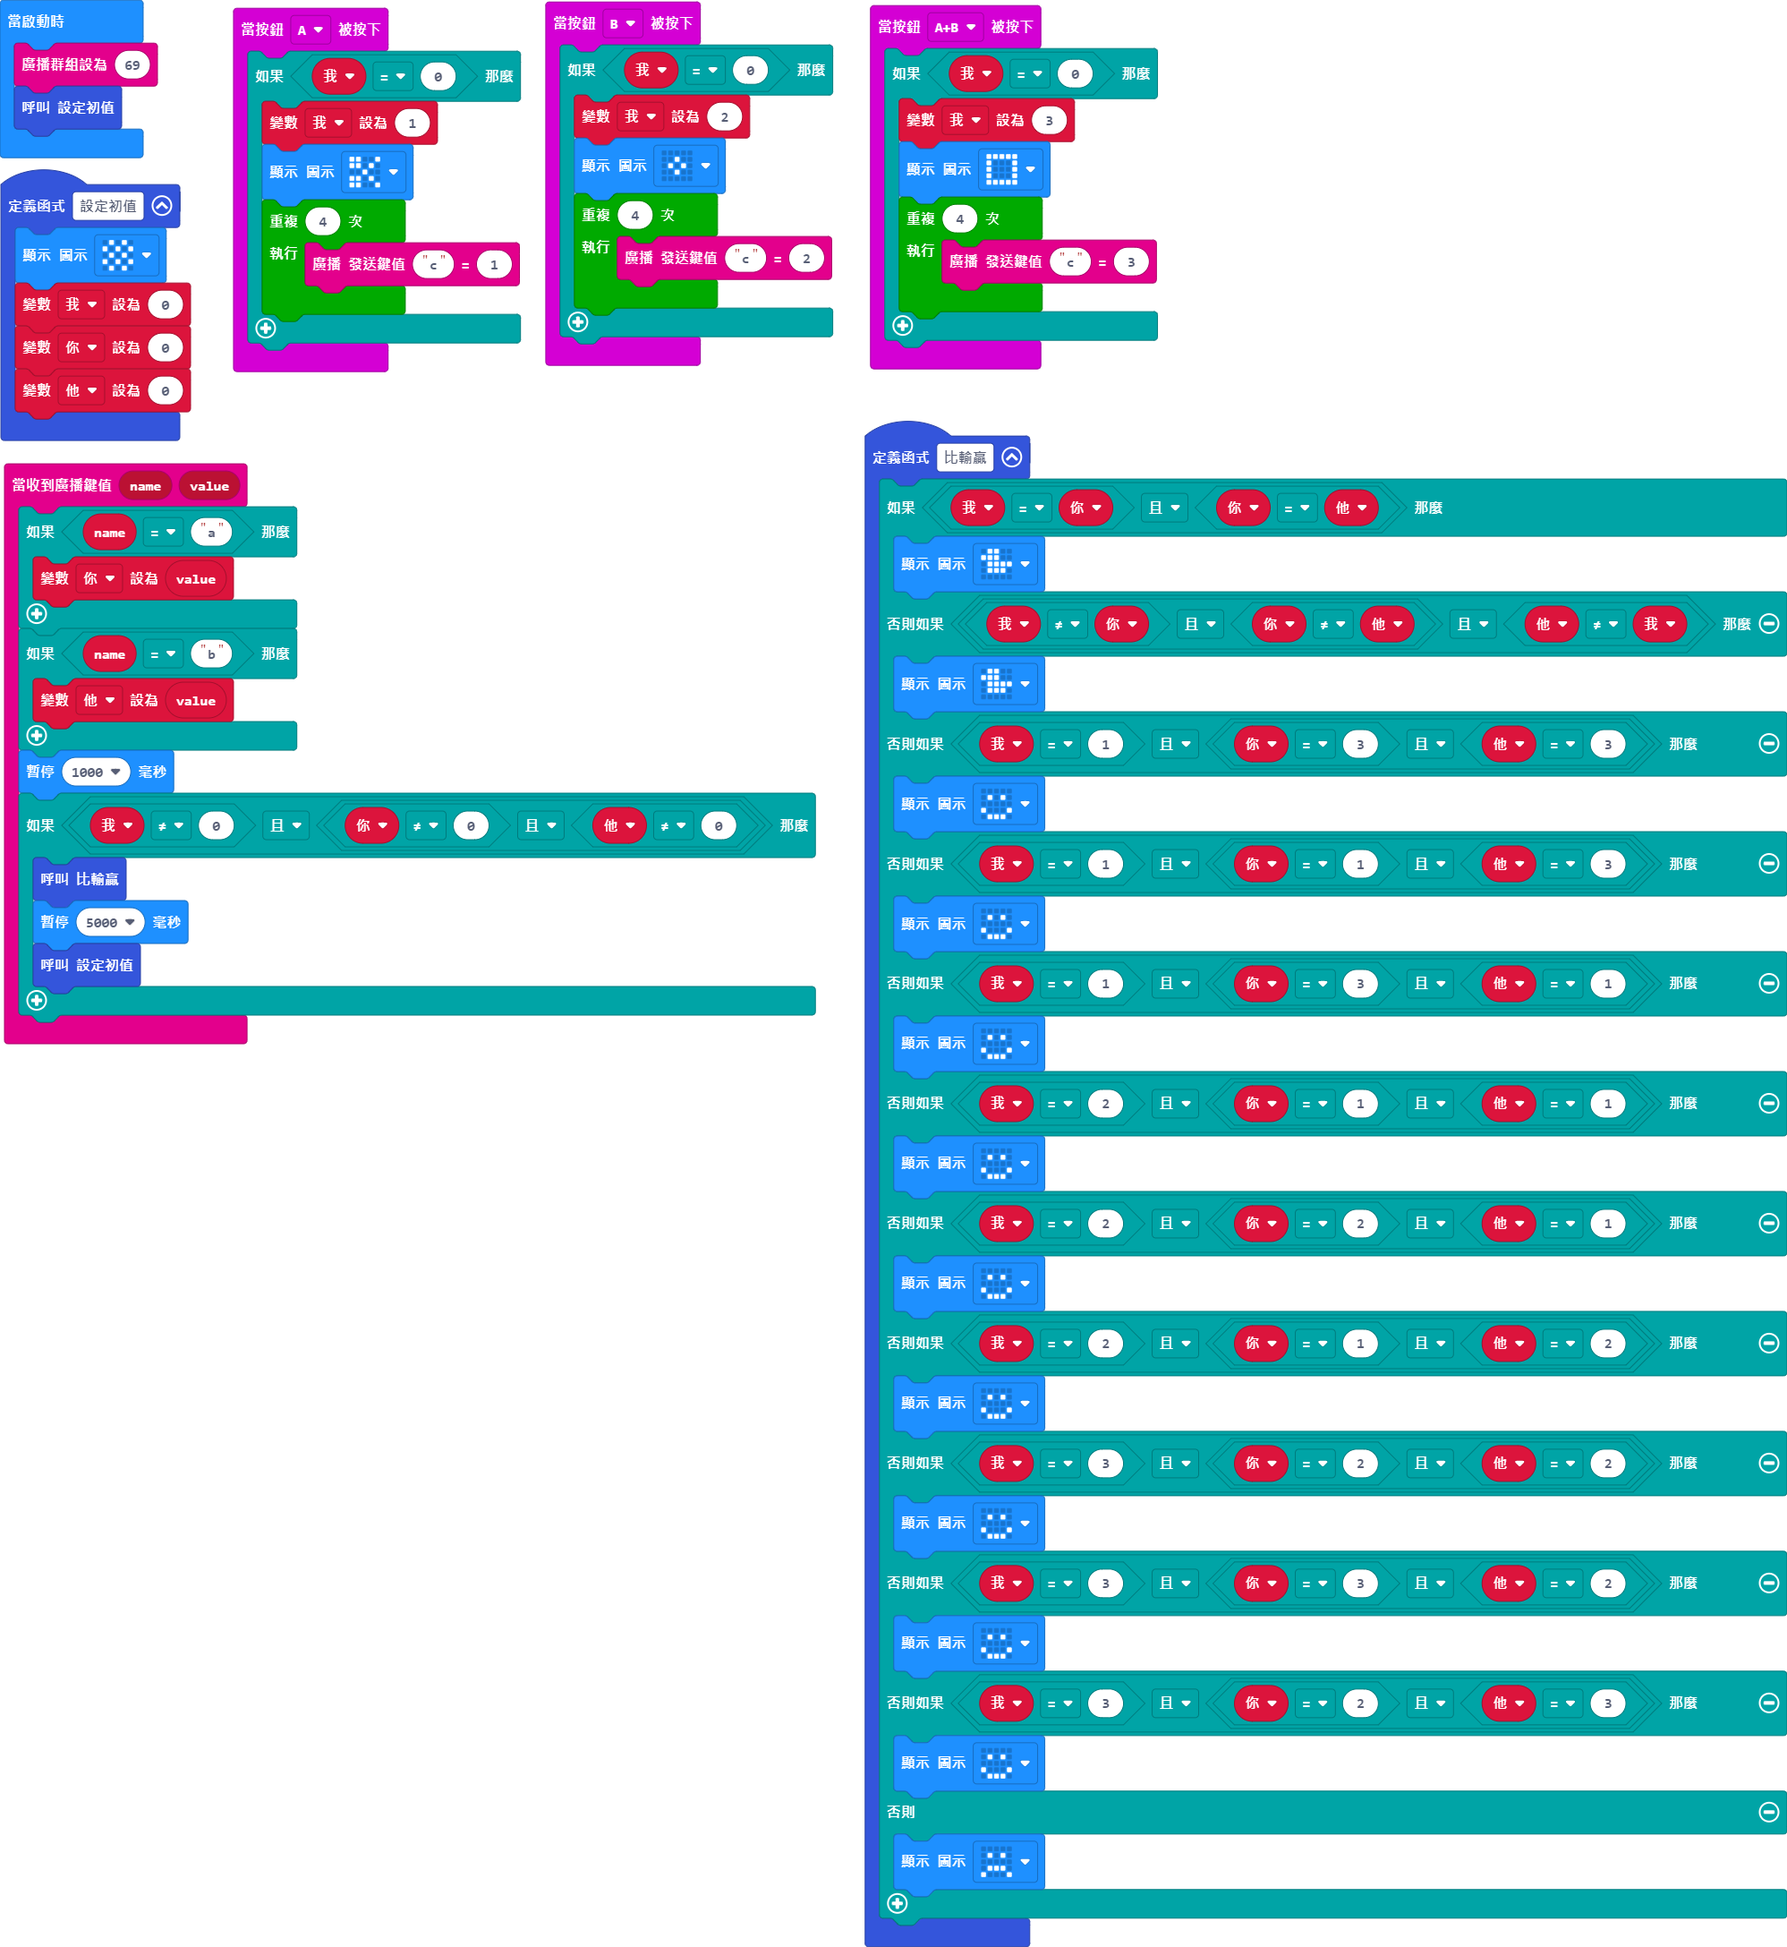
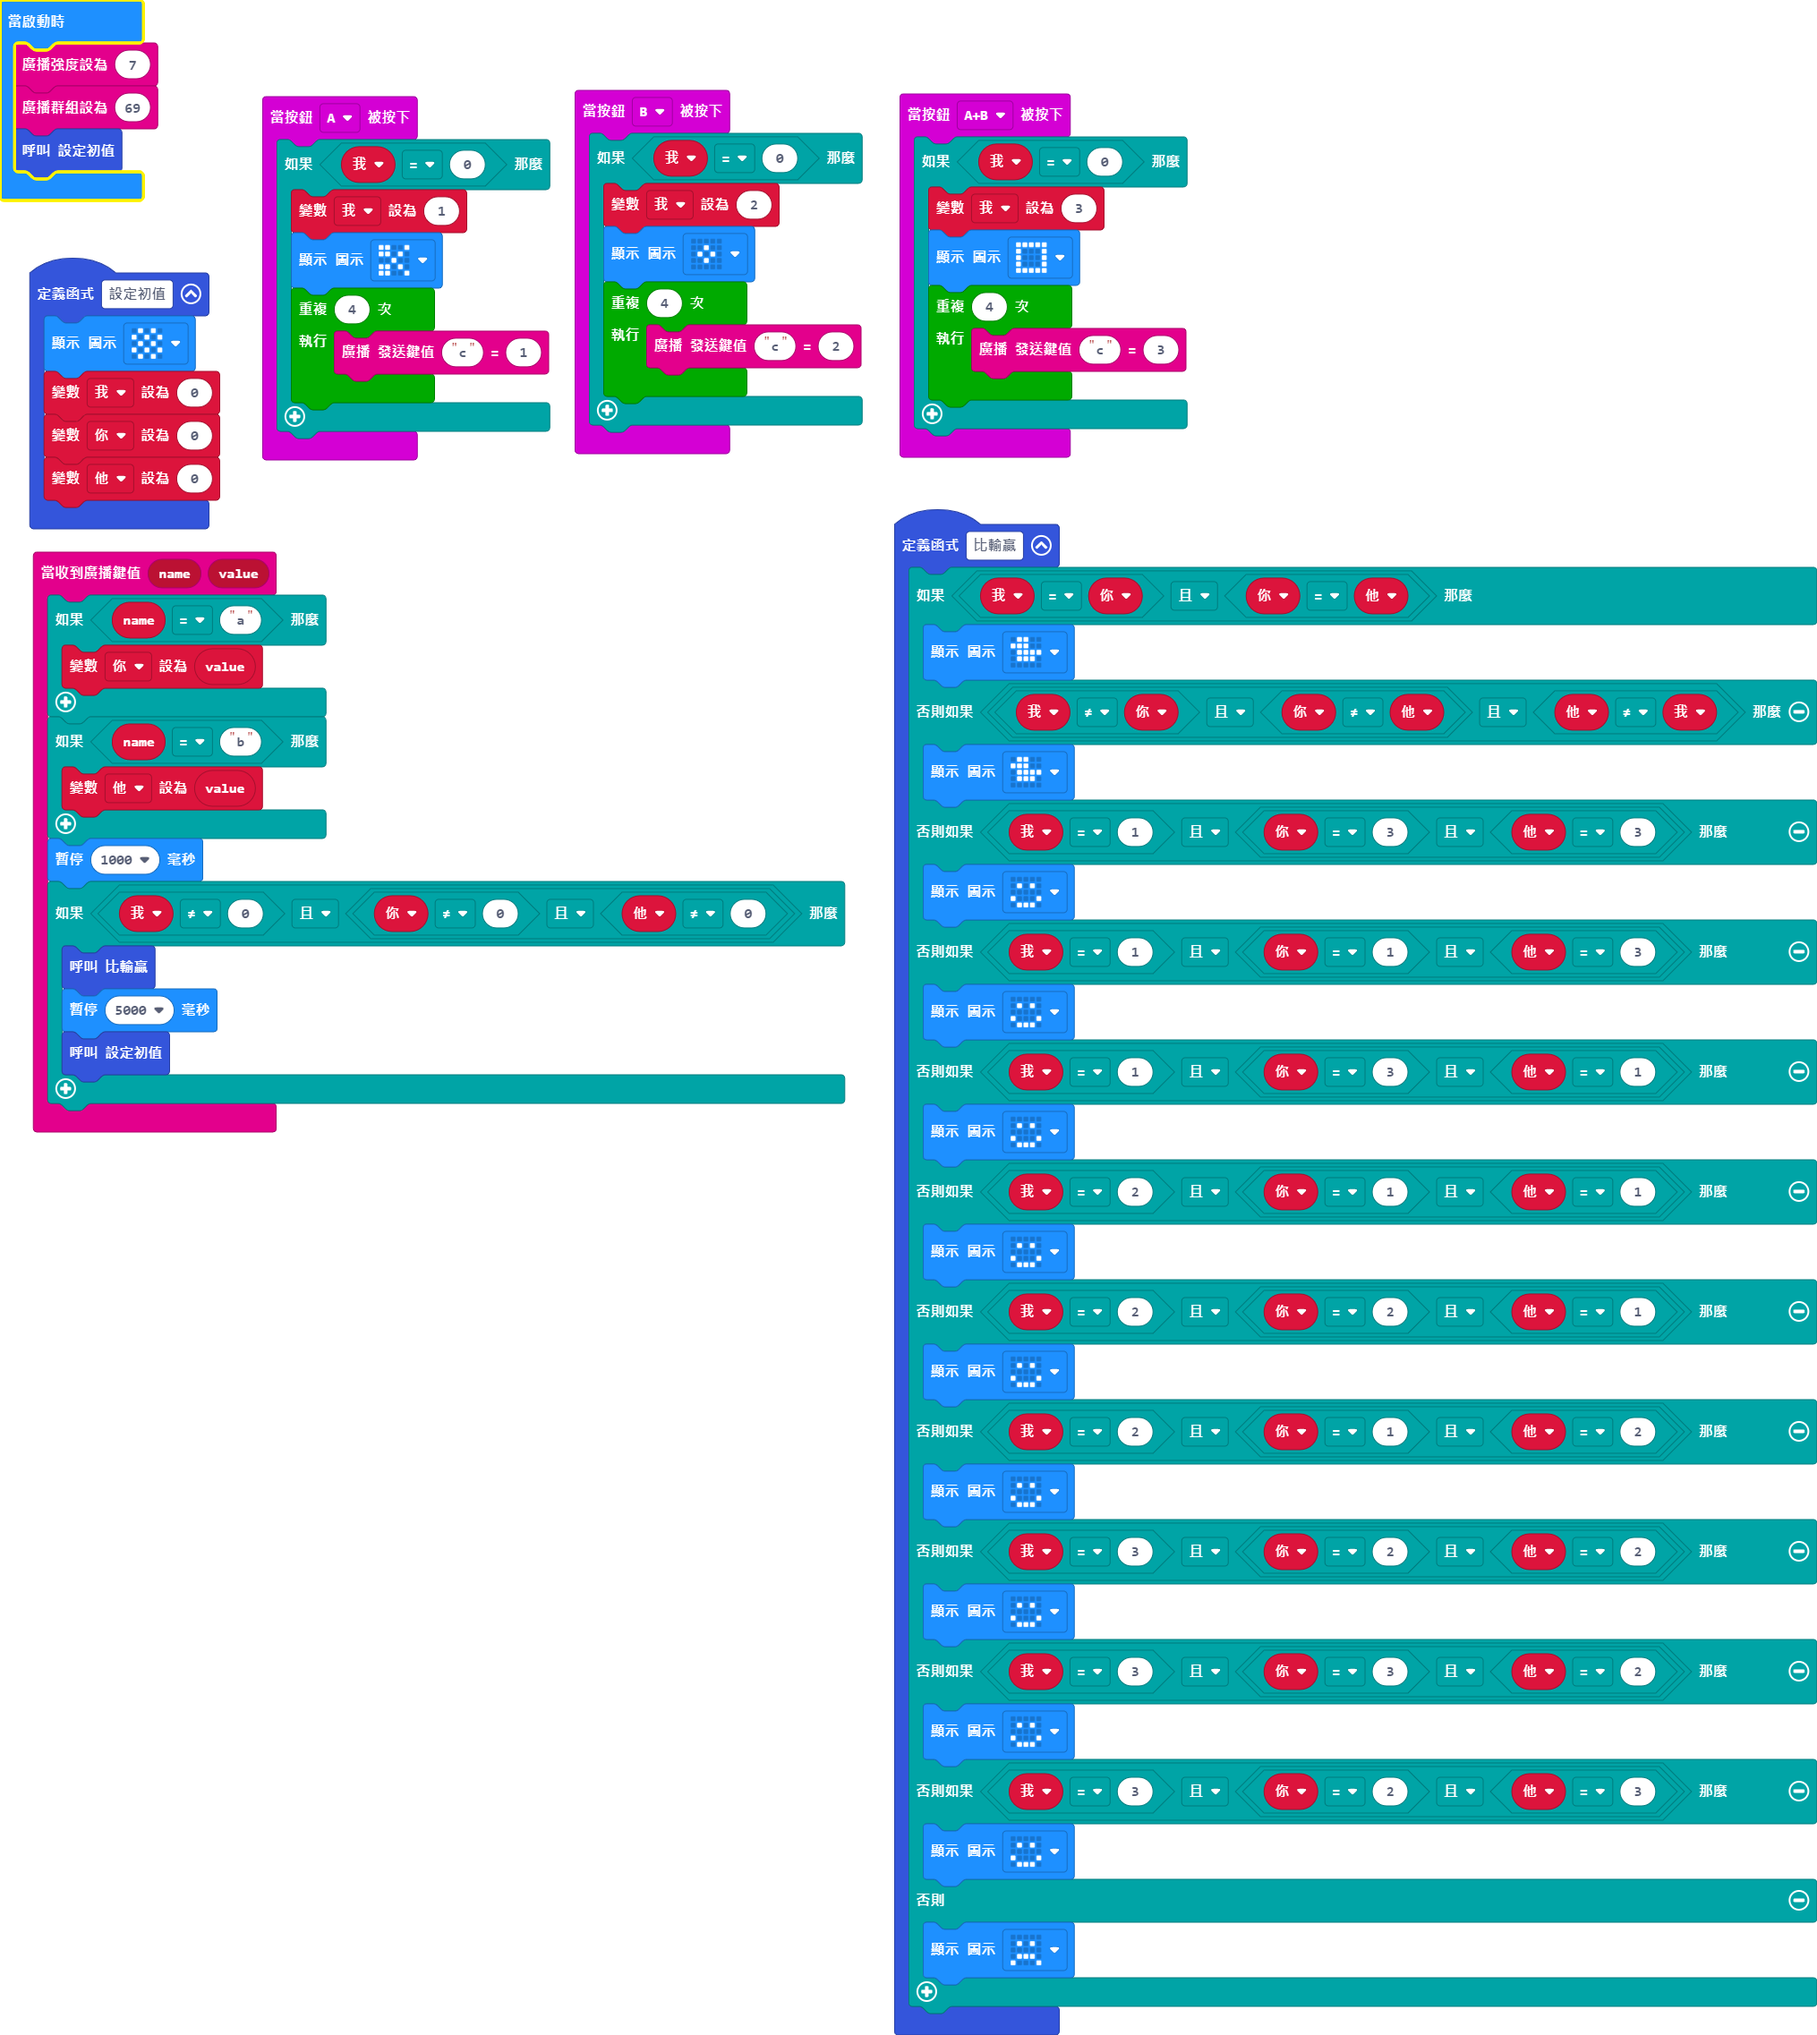
更新 main.blocks, main.ts

diff --git a/main.ts b/main.ts
@@ -75,5 +75,6 @@ radio.onReceivedValue(function (name, value) {
 let 他 = 0
 let 你 = 0
 let 我 = 0
+radio.setTransmitPower(7)
 radio.setGroup(69)
 設定初值()
